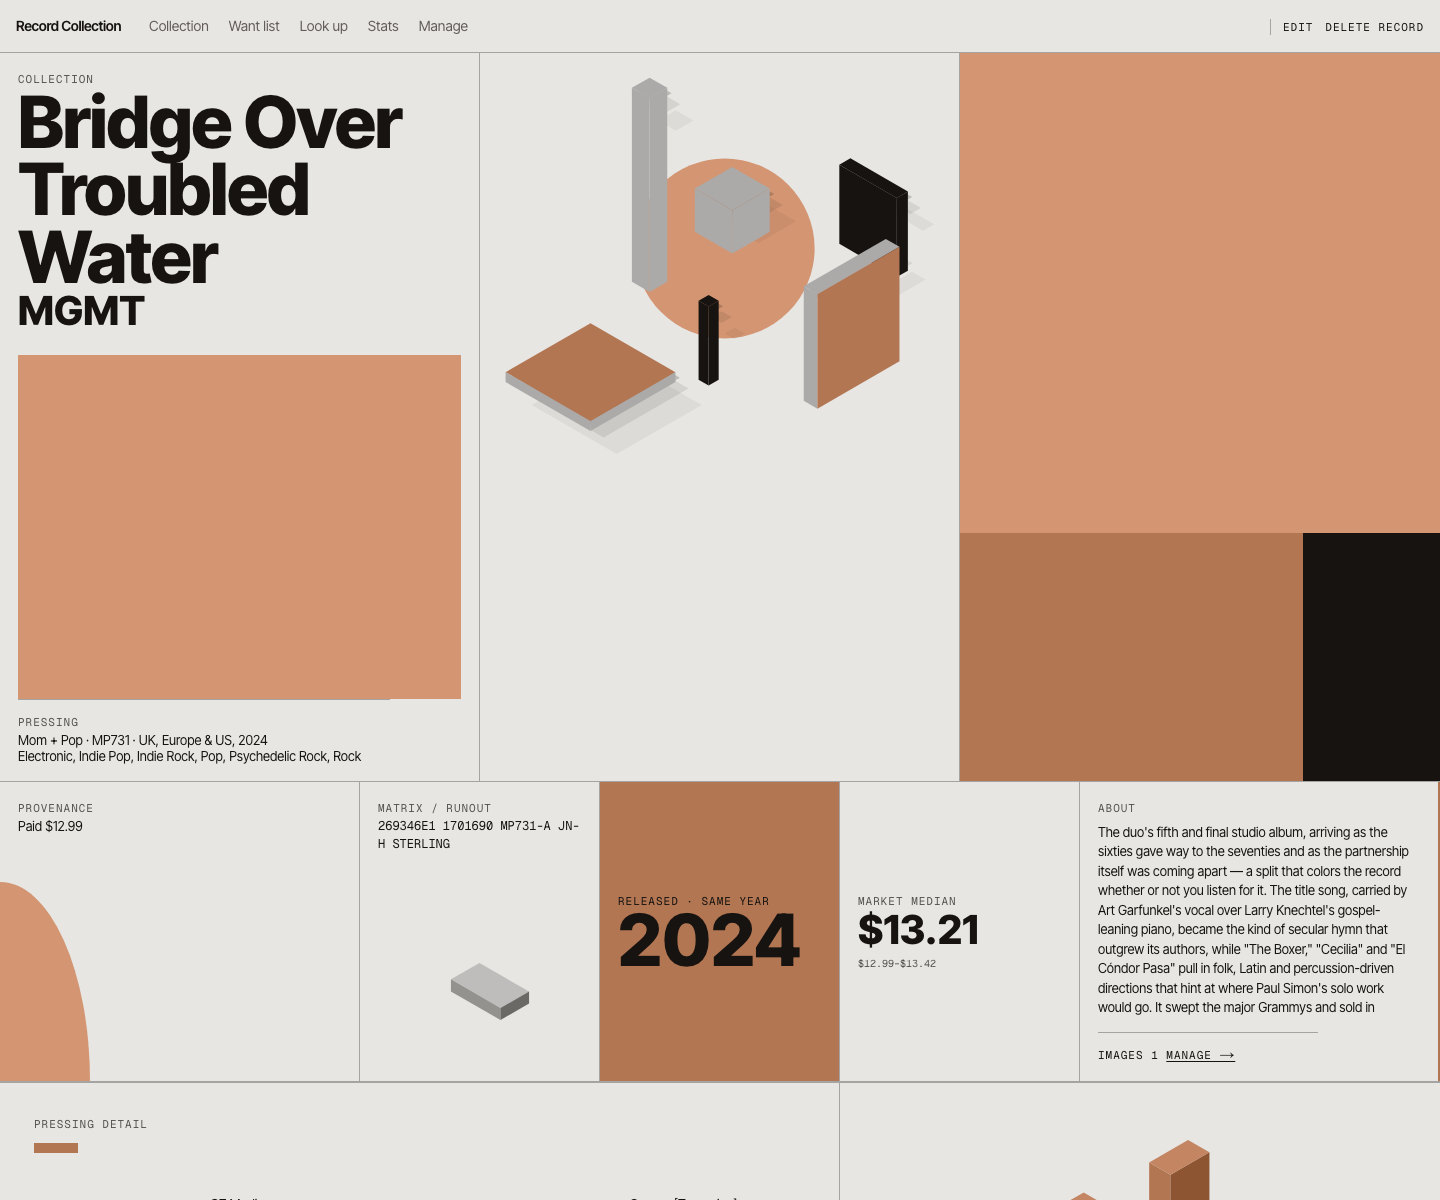
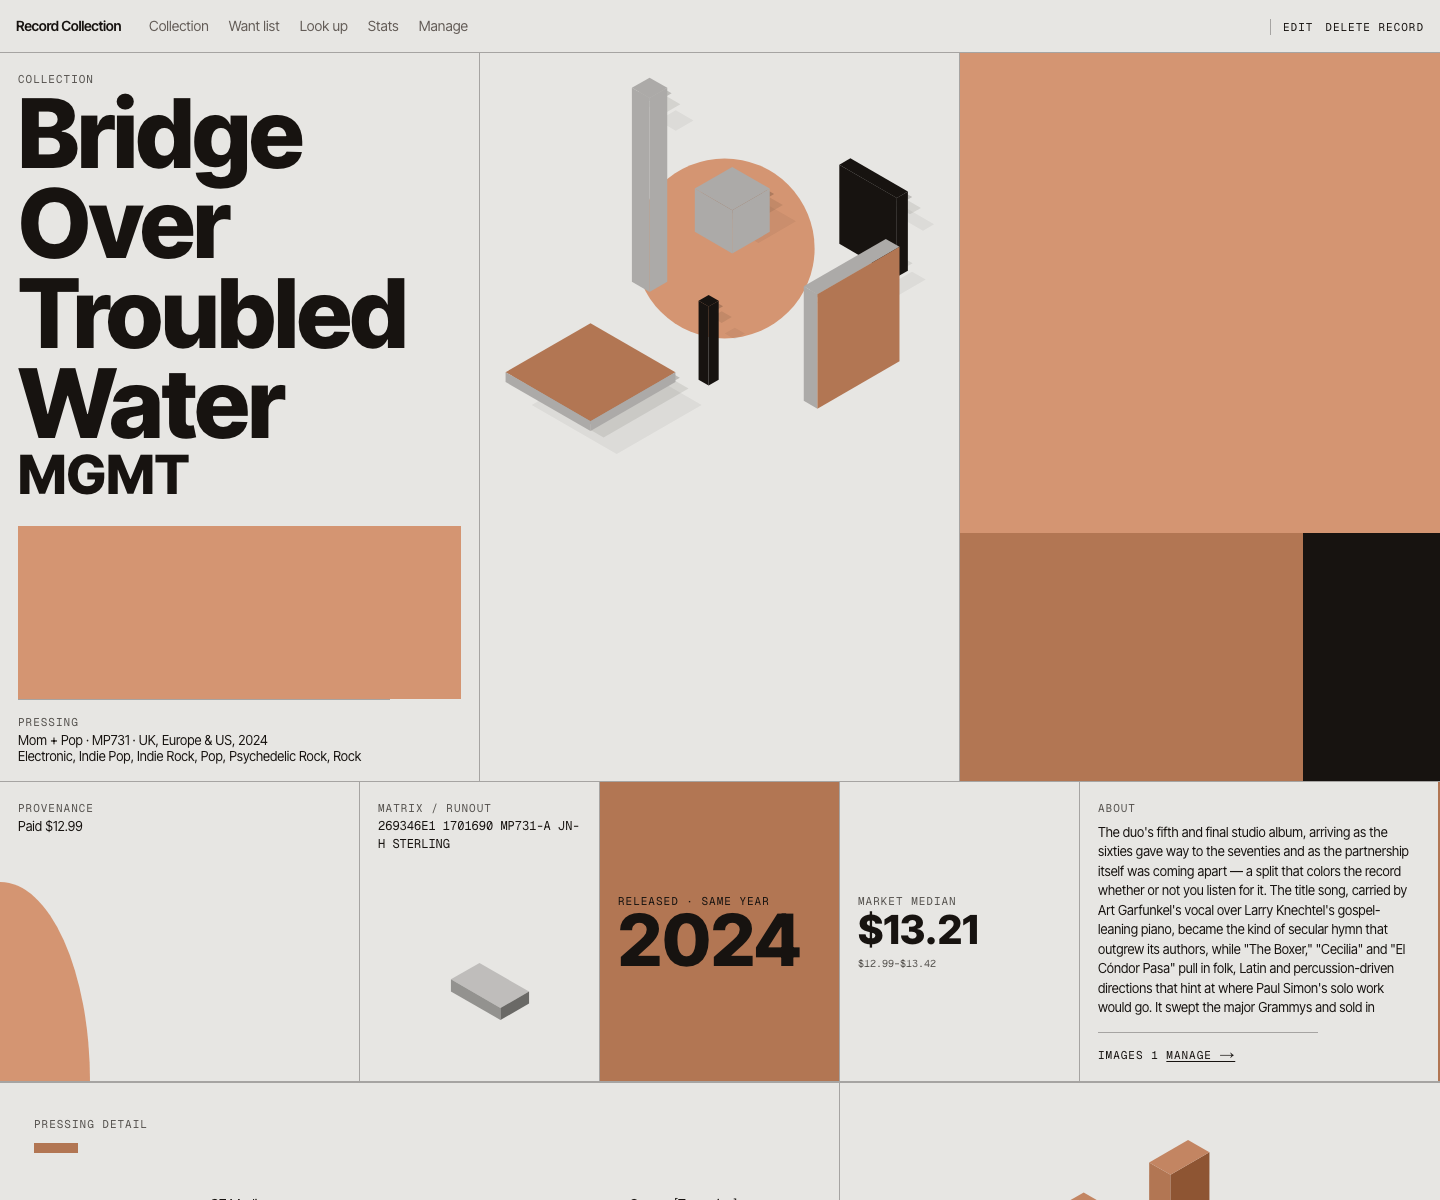
Step 53b regression: the tint field is not the ladder's demand
Found by step 55's fork table: with the field present every one of the
seventeen read 72/40 at 1440 × 900, where before the field they took 144
and 120. TitleStep's `below` summed the grown ground wrapper as content --
the same defect GenresRun had. The §33 Loss Of Life test kept passing
because its record has no spine colour and so no field.

The §45 field test now asserts the ladder's `below` is the eyebrow plus
the pressing block on every reading; it failed on 34 of 34 before the fix.
Marks and ground are excluded from the sum. The 53b captures are re-taken
on the fixed ladder.

Step level: title-ladder-45, title-ladder-33, identity-cell,
genres-collapse (one red, the known §27 finding) on chromium; typecheck,
lint, build. Not the full suites.

Changed region(s): [[0.0, 0.0617, 0.3438, 0.4625]]

diff --git a/e2e/title-ladder-45.spec.ts b/e2e/title-ladder-45.spec.ts
@@ -141,7 +141,11 @@ test('§45: the tint field fills the leftover between the title and the pressing
         const field = document.querySelector<HTMLElement>('[data-mark="identityField"]');
         if (!track || !title || !pressing) return null;
         const f = field === null ? null : R(field);
-        return { titleBottom: R(title).bottom, pressingTop: R(pressing).top, trackW: track.clientWidth, runPresent: document.querySelector('[data-field="genres"]') !== null, field: f === null ? null : { top: f.top, bottom: f.bottom, width: f.width, height: f.height, bg: getComputedStyle(field as HTMLElement).backgroundColor } };
+        const outer = (el: Element) => { const b = R(el); const s = getComputedStyle(el); return b.height + parseFloat(s.marginTop) + parseFloat(s.marginBottom); };
+        const eyebrow = document.querySelector<HTMLElement>('[data-field="eyebrow"]');
+        const ladder = JSON.parse(document.querySelector('[data-title-step]')?.getAttribute('data-ladder') ?? '{}') as { below: number; pair: { title: number; artist: number } };
+        const belowRendered = (eyebrow === null ? 0 : outer(eyebrow)) + outer(pressing);
+        return { ladderBelow: ladder.below, belowRendered, titleBottom: R(title).bottom, pressingTop: R(pressing).top, trackW: track.clientWidth, runPresent: document.querySelector('[data-field="genres"]') !== null, field: f === null ? null : { top: f.top, bottom: f.bottom, width: f.width, height: f.height, bg: getComputedStyle(field as HTMLElement).backgroundColor } };
       });
       const where = `${r.title.split(':')[0]} @1440x${h}`;
       if (m === null) { bad.push(`${where}: no identity cell`); continue; }
@@ -155,6 +159,8 @@ test('§45: the tint field fills the leftover between the title and the pressing
       if (m.field.bg === 'rgba(0, 0, 0, 0)') bad.push(`${where}: the field has no fill`);
       /* The field is the gap made visible, not demand: the genres run must not yield to it (found 29 Sep: the run's measure summed the grown field and collapsed on every record with room). */
       if (!m.runPresent) bad.push(`${where}: the genres run collapsed under the field`);
+      /* And the ladder's demand does not count it either: `below` is the eyebrow plus the pressing block, not the field (found 29 Sep by the fork table: every record read 72/40 with the field summed in). */
+      if (Math.abs(m.ladderBelow - m.belowRendered) > 1.5) bad.push(`${where}: the ladder's below is ${m.ladderBelow} where the eyebrow plus pressing block render ${m.belowRendered.toFixed(1)} -- the field is being counted as demand`);
       seen.push(`${r.title.split(':')[0]} ${Math.round(m.field.height)}`);
     }
   }

diff --git a/src/app/records/[id]/TitleStep.tsx b/src/app/records/[id]/TitleStep.tsx
@@ -109,9 +109,10 @@ export function TitleStep({
         that overflowed also set in four lines, and §33 withdrew the cap.
         `e2e/title-ladder-33.spec.ts` now reads `below` off the page.
       */
+      /* §45's tint field is the gap made visible -- ground, not demand. Summed, it read as content and the ladder fell to 72/40 on every record with a ladder (found 29 Sep). Marks and ground are never demand. */
       const below = [
         ...Array.from(block.children).filter((child) => child !== el),
-        ...Array.from(track.children).filter((child) => child !== block),
+        ...Array.from(track.children).filter((child) => child !== block && !child.matches('[data-mark], [data-ground]')),
       ].reduce((sum, child) => sum + outer(child), 0);
 
       /* The title's measure. */
